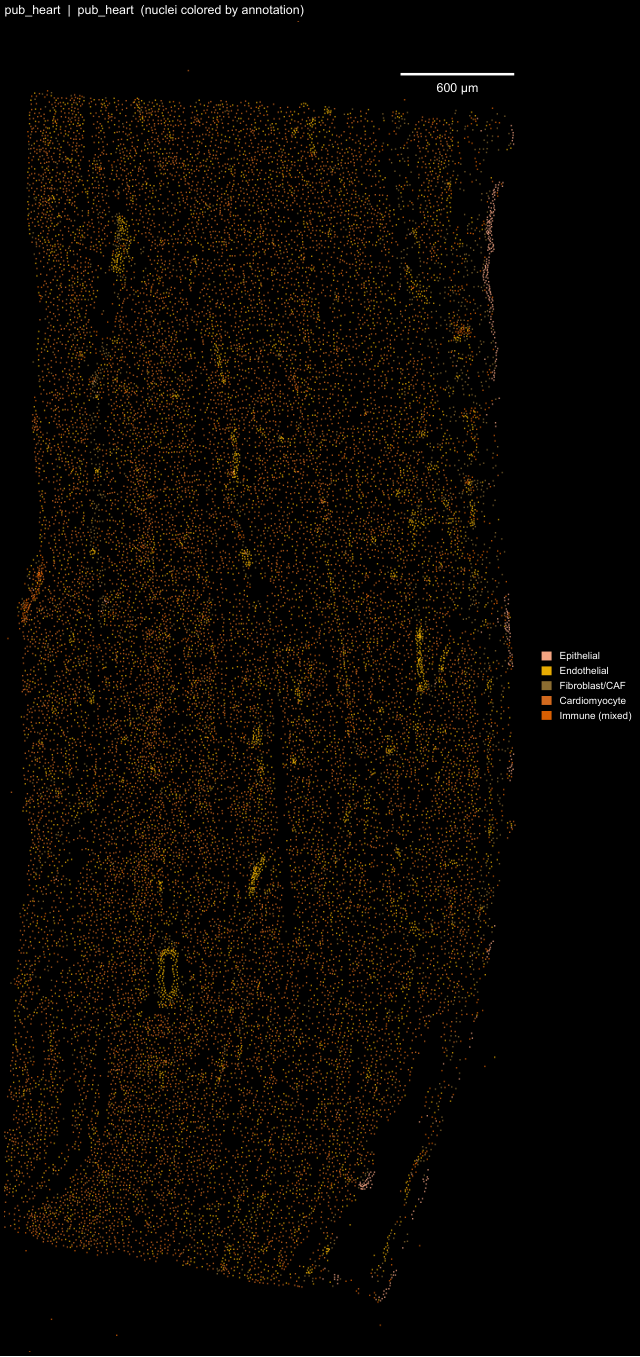
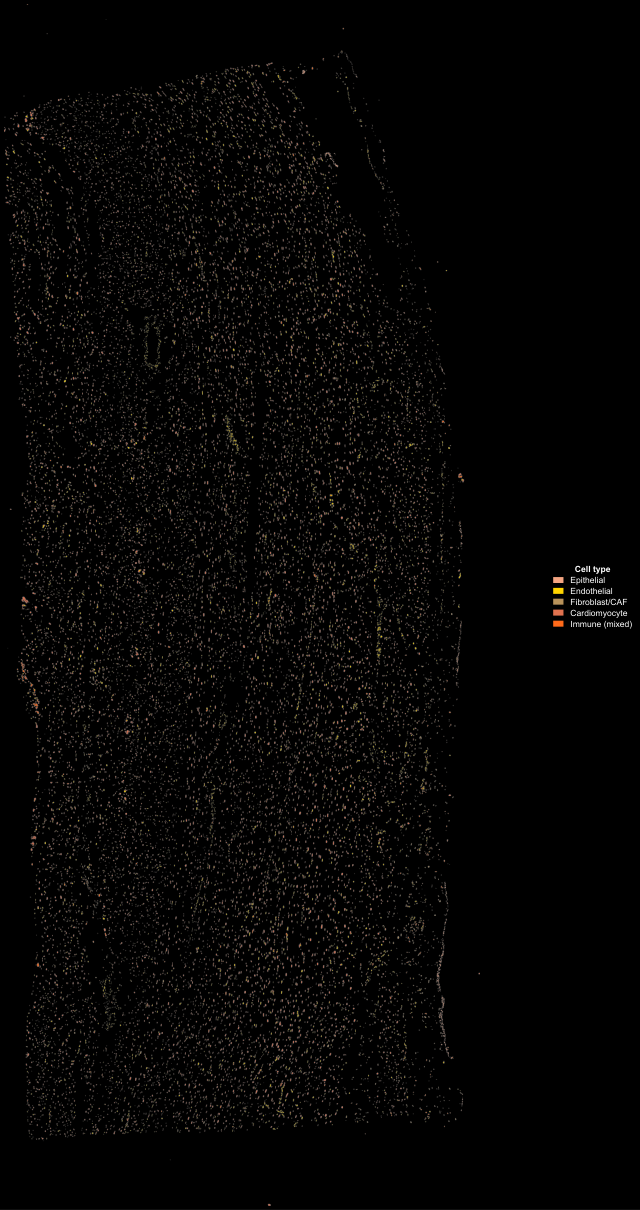
gallery: corrected black-bg nucleus-boundary spatial plots + platform filter
Switch gallery to nucleus-boundary polygon / nuclear-transcript renders (whole
section, black background, dpi600) for 33 datasets; add Xenium/CosMx/MERFISH/
seqFISH platform-family filter alongside category chips and site search. 52
datasets catalogued (Cancer 24 / Normal 23 / Developmental 3 / Disease 2).

diff --git a/docs/_static/gallery.js b/docs/_static/gallery.js
@@ -17,6 +17,20 @@
     return String(n);
   }
 
+  // collapse the many platform strings into a filterable family (Xenium / CosMx / MERFISH / ...)
+  function platformFamily(p) {
+    var s = String(p || "").toLowerCase();
+    if (s.indexOf("xenium") !== -1) return "Xenium";
+    if (s.indexOf("cosmx") !== -1) return "CosMx";
+    if (s.indexOf("merfish") !== -1) return "MERFISH";
+    if (s.indexOf("seqfish") !== -1) return "seqFISH";
+    if (s.indexOf("ribomap") !== -1) return "RIBOmap";
+    if (s.indexOf("eel") !== -1) return "EEL-FISH";
+    if (s.indexOf("starmap") !== -1) return "STARmap";
+    if (s.indexOf("osmfish") !== -1) return "osmFISH";
+    return p || "Other";
+  }
+
   function card(d) {
     var badges =
       '<span class="bb-badge bb-cat-' + esc(d.category) + '">' + esc(d.category) + "</span>" +
@@ -33,7 +47,7 @@
                   (d.cell_types || []).join(" ")].join(" ").toLowerCase();
     return (
       '<figure class="bb-tile" data-category="' + esc(d.category) + '" data-site="' + esc(d.site) +
-      '" data-search="' + esc(search) + '">' +
+      '" data-platform="' + esc(platformFamily(d.platform)) + '" data-search="' + esc(search) + '">' +
       '<span class="bb-frame">' + img + "</span>" +
       '<figcaption class="bb-caption">' +
       '<span class="bb-badges">' + badges + "</span>" +
@@ -50,17 +64,19 @@
     var src = grid.getAttribute("data-gallery-src");
     var chipBox = document.getElementById("bb-chips");
     var siteSel = document.getElementById("bb-site");
+    var platSel = document.getElementById("bb-platform");
     var searchEl = document.getElementById("bb-search");
     var viewBox = document.getElementById("bb-viewtoggle");
     var countEl = document.getElementById("bb-count");
 
-    var active = { category: "all", site: "all", q: "" };
+    var active = { category: "all", site: "all", platform: "all", q: "" };
 
     function tiles() { return Array.prototype.slice.call(grid.querySelectorAll(".bb-tile")); }
 
     function matches(t) {
       if (active.category !== "all" && t.getAttribute("data-category") !== active.category) return false;
       if (active.site !== "all" && t.getAttribute("data-site") !== active.site) return false;
+      if (active.platform !== "all" && t.getAttribute("data-platform") !== active.platform) return false;
       if (active.q && t.getAttribute("data-search").indexOf(active.q) === -1) return false;
       return true;
     }
@@ -85,6 +101,7 @@
         });
       }
       if (siteSel) siteSel.addEventListener("change", function () { active.site = siteSel.value; apply(); });
+      if (platSel) platSel.addEventListener("change", function () { active.platform = platSel.value; apply(); });
       if (searchEl) searchEl.addEventListener("input", function () { active.q = searchEl.value.trim().toLowerCase(); apply(); });
       if (viewBox) {
         viewBox.addEventListener("click", function (e) {
@@ -103,6 +120,13 @@
         sites.sort();
         siteSel.innerHTML = '<option value="all">All sites</option>' +
           sites.map(function (s) { return '<option value="' + esc(s) + '">' + esc(s) + "</option>"; }).join("");
+      }
+      if (platSel) {
+        var pseen = {}, plats = [];
+        data.forEach(function (d) { var f = platformFamily(d.platform); if (!pseen[f]) { pseen[f] = 1; plats.push(f); } });
+        plats.sort();
+        platSel.innerHTML = '<option value="all">All platforms</option>' +
+          plats.map(function (p) { return '<option value="' + esc(p) + '">' + esc(p) + "</option>"; }).join("");
       }
       wire();
       apply();

diff --git a/docs/guides/gallery.md b/docs/guides/gallery.md
@@ -46,6 +46,10 @@
       <option value="all">All sites</option>
     </select>
 
+    <select class="bb-select" id="bb-platform" aria-label="Filter by platform">
+      <option value="all">All platforms</option>
+    </select>
+
     <div class="bb-viewtoggle" id="bb-viewtoggle" role="group" aria-label="Columns">
       <span class="bb-vlabel">View</span>
       <button class="bb-view" data-cols="2" aria-label="Two columns">2</button>
